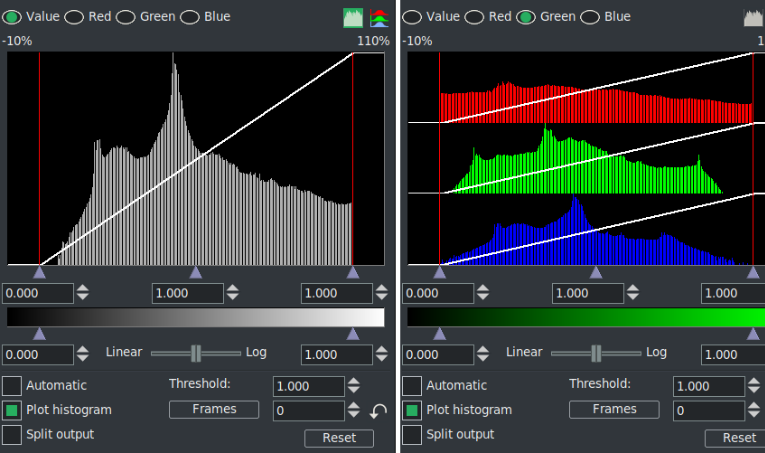
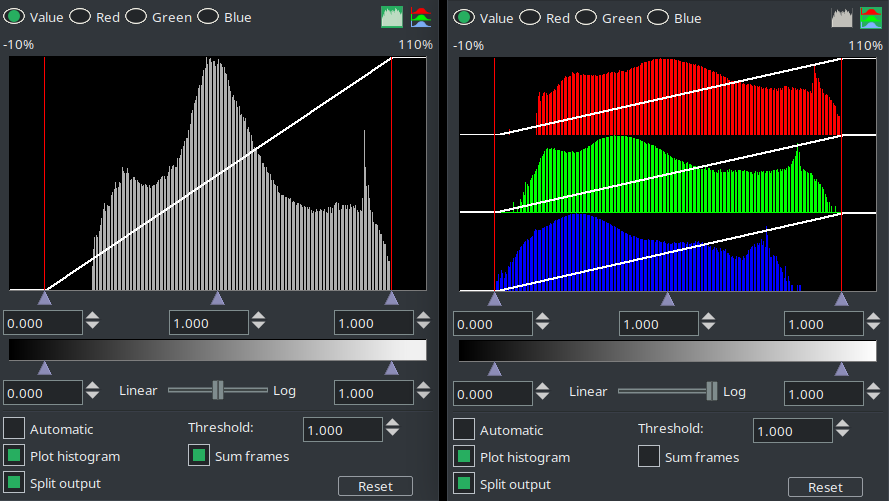
Credit Andrea with Histogram improved explanations and new sum png

diff --git a/parts/Plugins.tex b/parts/Plugins.tex
@@ -1357,7 +1357,7 @@ Together with \textit{Histogram Bezier / Curves} Color 3 Way is the main tool of
     \item Allows you to automate the \textit{white balance} by simply choosing a neutral color in the output of the Compositing window using the Color Picker and pressing the corresponding button in the plugin.
     \item Allows you to vary the \textit{Saturation} with sliders in the same manner as contrast was varied by the Value slider. For istance, to decrease the incidence of color dominants present in the shadows or in the highlights, vary the Saturation.
     \item With the \textit{color wheels} you can make very sophisticated adjustments to the shades of the images, in each of the three main areas of shadows, midtones and highlights.
-    \item Allows you to copy exactly the setting of one zone to the other two zones using \textit{Copy to all} button.
+    \item Allows you to copy exactly the setting of one zone to the other two zones using \textit{Copy to all} button. With this option, it is like using a fourth wheel called \textit{OffSet} in other programs.
     \item In addition to the three reset buttons, each slider and each wheel has its own Clear button, to return it to the default value without affecting the others.
 \end{itemize}
 
@@ -1758,7 +1758,7 @@ The best use of the gamma is manually monitoring the waveform as shown in figure
 
 \begin{itemize}
     \item Look at the highest peak on the \textit{waveform} and measure it with the crosshair observing the numerical value at the top left.
-    \item Set this value with the \textit{maximum} slider.
+    \item Set this value with the \textit{maximum} slider or \textit{textbox}.
     \item Then adjust the slider of the \textit{gamma} to our liking, always checking the result on the waveform so to be sure never to exceed the values of clipping, $0 \div 1.0$.
 \end{itemize}
 
@@ -1809,7 +1809,8 @@ Remap colors using blended histogram weights. Figure~\ref{fig:histeq} shows the 
     \label{fig:histeq}
 \end{figure}
 
-Histeq equalizes the colorspace through use of a \textit{histogram equalization algorithm} -- a technique for adjusting image intensities to enhance contrast. Parameters are:
+If the histogram is as wide as the entire range ($0 - 1.0$), the image is high contrast. If the range is small (i.e., the values are close together) the contrast is small. In this case HistEQ is used to distribute the few clustered values across the entire range ($0 - 1.0$), increasing the contrast of the frame.
+In order to do this HistEQ equalizes the colorspace through use of a \textit{histogram equalization algorithm}. Parameters are:
 
 \begin{description}
     \item[Gain:] when set to $1$, the colorspace is best effort. If the gain is set to $0$, the result is the entire regression line of the color map.
@@ -1822,7 +1823,7 @@ Histeq equalizes the colorspace through use of a \textit{histogram equalization 
 \label{sub:histogram}
 \index{histogram}
 
-The histogram allows an immediate view of the contrast amplitude of an image with its distribution of \textit{luma} and \textit{colors} values. If the columns of values occupy the whole range $0-100\%$ then we have maximum contrast; if the range is smaller the contrast is smaller. If most of the values are on the right of the histogram you have an image with highlights at the limit with values clamped to $1.0$. This is called \textit{overexposure}. However, if most of the values are moved to the left, with the limit of the values clamped to $0$, we have a lowlight image and we talk about \textit{underexposure}. Histogram is keyframble (figure~\ref{fig:histogram}).
+The histogram allows an immediate view of the contrast amplitude of an image with its distribution of \textit{luma} and \textit{colors} values. If the columns of values occupy the whole range $0-1.0\%$ (also expressed as a percentage above the graph) then we have maximum contrast; if the range is smaller the contrast is smaller. In fact, contrast is mathematically given by the highest value of the abscissa minus the lowest value. If the values are similar and close together, the difference is smaller and the lower the contrast. If most of the values are on the right of the histogram you have an image with highlights at the limit with values clamped to $1.0$. This is called \textit{overexposure}. However, if most of the values are moved to the left, with the limit of the values clamped to $0$, we have a lowlight image and we talk about \textit{underexposure}. This plugin is a tool for Primary Color Correction, that is, affecting the entire frame. Histogram is keyframable (figure~\ref{fig:histogram}).
 
 \begin{figure}[htpb]
     \centering
@@ -1831,18 +1832,20 @@ The histogram allows an immediate view of the contrast amplitude of an image wit
     \label{fig:histogram}
 \end{figure}
 
-The Histogram is always performed in floating point RGB regardless of the project color space. The histogram has two sets of transfer parameters: the \textit{input transfer} and the \textit{output transfer}. The input transfer has value on the horizontal axis of $x$; it is a scale of values ranging from 0 to 255 in the case of an $8\,bit$ image, or it can have normalized values in the range ($0-1.0$) or even be a scale in percentage ($0-100\%$). In the output transfer (the $y\,axis$) is represented the number of times (that is, $y$) a given value $x$ appears. A higher column ($y$ greater) indicates that many pixels have the corresponding value $x$; a lower column indicates that fewer pixels have that value. On the left we have the minimum value $0$, which is the black point. On the right we have the maximum value $1.0$ which is the white point. The intermediate values pass smoothly from one extreme to the other. The three important points (including the midtones, i.e.\ the Master Offset) are indicated by cursors (small triangles) at the base of the histogram. You can adjust them to change the values of the three points if you want.
+The Histogram is always performed in floating point RGB regardless of the project color space. The histogram has two sets of transfer parameters: the \textit{input transfer} and the \textit{output transfer}. The input transfer has value on the horizontal axis of $x$; it is a normalized scale of values ranging from 0 - 1.0 (which for a depth color of 8 bits corresponds to the range 0 - 255, for 10 bits corresponds to 0 - 65536, etc). The output transfer (the $y\,axis$) represents the number of times (that is, $y$) a given value $x$ appears. A higher column ($y$ greater) indicates that many pixels have the corresponding value $x$; a lower column indicates that fewer pixels have that value. On the left we have the minimum value $0$, which is the black point. On the right we have the maximum value $1.0$ which is the white point. The intermediate values pass smoothly from one extreme to the other. The three important points (including the midtones) are indicated by cursors (small triangles) at the base of the histogram. You can adjust them to change the values of the three points if you want. Acting on the white or black point involves horizontal shifts only; acting on the midtones triangle also involves vertical movements leading to a "gamma" correction of the curve (Linear to Log or Reverse Log or vice versa). Further down is an additional bar with related cursors and textboxes. It is used to adjust input and output values (on the vertical).
 
-There are 4 possible histograms in the histogram viewer. The red, green, blue histograms show the input histograms for red, green, blue and multiply them by an input transfer to get the output red, green, blue. Then the output red, green, blue is scaled by an output transfer. The scaled red, green, blue is converted into a value and plotted on the value histogram. The value histogram thus changes depending on the settings for red, green, blue. The value transfers are applied uniformly to R, G, B after their color transfers are applied. Mathematically, it is said that the values of $x$ are linked to the values of $y$ by a transfer function. This function is represented by a line that leaves the values of $x$ and $y$ unchanged, but we can intervene by modifying this line with the cursors.
+There are 4 possible histograms in the histogram viewer. The red, green, blue histograms show the input histograms for red, green, blue and multiply them by an input transfer to get the output red, green, blue. Then the output red, green, blue is scaled by an output transfer. The scaled red, green, blue is converted into a value and plotted on the value histogram. The value histogram thus changes depending on the settings for red, green, blue. The value transfers are applied uniformly to R, G, B after their color transfers are applied. Mathematically, it is said that the values of $x$ are linked to the values of $y$ by a transfer function. This function, by default, is represented by a line that leaves the values of $x$ and $y$ unchanged, but we can intervene by modifying this line with the cursors or the textboxes.
 
 You need to select which transfer to view by selecting one of the channels on the top of the histogram. You can also choose whether to display the master, i.e.\ only the values of the \textit{luma}, or show the \textit{Parade}, i.e.\ the three RGB channels. You can switch from one to the other with the two buttons in the upper right corner. The input transfer is defined by a graph overlaid on the histogram; this is a straight line. Video entering the histogram is first plotted on the histogram plot, then it is translated so output values now equal the output values for each input value on the input graph.
 
-After the input transfer, the image is processed by the output transfer. The output transfer is simply a minimum and maximum to scale the input colors to. Input values of $100\%$ are scaled down to the output's maximum. Input values of $0\%$ are scaled up to the output minimum. Input values below $0$ are always clamped to $0$ and input values above $100\%$ are always clamped to $100\%$. Click and drag on the output gradient's triangles to change it. It also has textboxes to enter values into.
+After the input transfer, the image is processed by the output transfer. The output transfer is simply a minimum and maximum to scale the input colors to. Input values of $1.0$ are scaled down to the output's maximum. Input values of $0$ are scaled up to the output minimum. Input values below $0$ are always clamped to $0$ and input values above $1.0$ are always clamped to $1.0$. Click and drag on the output gradient's triangles to change it. It also has textboxes to enter values into.
 
-Enable the \textit{Automatic} toggle to have the histogram calculate an automatic input transfer for the red, green, and blue but not the value. It does this by scaling the middle $99\%$ of the pixels to take $100\%$ of the histogram width. The number of pixels permitted to pass through is set by the \textit{Threshold} textbox. A threshold of $0.99$ scales the input so $99\%$ of the pixels pass through. Smaller thresholds permit fewer pixels to pass through and make the output look more contrasty.
-\textit{Plot histogram} is a checkbox that enables plotting the histogram.
-\textit{Split output} is a checkbox that enables a diagonal split showing in the compositor.
+Enable the \textbf{Automatic} toggle to have the histogram calculate an automatic input transfer for the red, green, and blue but not the value. It does this by scaling the middle $99\%$ of the pixels to take $100\%$ of the histogram width. The number of pixels permitted to pass through is set by the \textit{Threshold} textbox. A threshold of $0.99$ scales the input so $99\%$ of the pixels pass through. Smaller thresholds permit fewer pixels to pass through and make the output look more contrasty.
+\textit{Plot histogram} is a checkbox that enables plotting the histogram. It can be useful because having a histogram that changes in real-time can use a lot of system resources for computation. In this case it is enabled only at times when it is needed.
+\textit{Split output} is a checkbox that enables a diagonal split showing in the compositor, so we can see the effects of the changes from the original frame.
 \textit{Reset} returns the four curves to their initial state (neutral) as well as the Value/RGB histogram buttons.
+
+\textbf{Linear to Log} slider: frequency in Linear range to Log range; default is 50\%, but if you want it to be the same as the Videoscope or Histogram Bezier, which are of type Log, set the slider all the way to Log.  The variation is by 10\% steps.  Linear generally represents what the eye sees in the real world.  Log is an exponential look where the small numbers are represented more - that is, the leading digit.
 
 The histogram plugin ordinarily applies a value for a single frame.  A
 new feature modifies histogram to show values for a selection of frames.
@@ -1855,74 +1858,112 @@ that set of frames instead of each frame.
 
 It works by selecting the area on the timeline for
 which you would like to see the Histogram averaged and then click on the
-\textit{Frames} button in the Histogram plugin.
-The parameters are:
-\textit{Linear to Log} slider: frequency in Linear range to Log range; default is 50\%, but if you want it to be the same as the Videoscope or Histogram Bezier, set the slider all the way to Log.  The variation is by 10\% steps.  Linear generally represents what the eye sees in the real world.  Log is an exponential look where the small numbers are represented more - that is, the leading digit.
-\textit{Frames} button: if a Selection is set on the timeline, the number of frames
-will be calculated and shown in the box next to it.
-\textit{Frame Count box}: type in the number of frames you want to be looked at
-starting at the insert marker or use the up/down counter.
-\textit{Clear Frames} icon: reset the frame count to the default value of 0.
+\textbf{sum frames} button in the Histogram plugin. If a Selection is set on the timeline, the number of frames will be calculated and equalized to the mean value.
 
 A side note: by using a number of frames, you can get a \textit{dissolve-like
 transition effect}.
 
 \paragraph{Theory:} 
 
-A histogram is a bunch of \textit{bins} (accumulators) that count the number of times a particular pixel channel intensity occurs in an image. Dim are on the left, bright on the right.
+A digital image is an matrix of ($N x N$) pixels. Each pixel can have a (integer) luminance or luma ($r$) value ranging from $0$ to $L-1$. Generally we have $L = 2^{m}$ values of r, with m = depth of color bit. $0 = r_{min}$ is the black point. $L-1 = r_{max}$ is the white point. Mathematically we can act on the values of r with various transformation functions. The generic formula is:
 
-The number of bins used depends on the color model bit depth:
+\qquad \( s = T(r) \)
+
+with:
+
+s = luma value after transformation
+r = initial luma value
+T = transformation operator
+
+The T function in the case of a histogram is:
+
+\qquad \( s = p(r_{k}) \)
+
+$T(r) = p(r_{k}$) is the transformation that expresses the probability of an image pixel to have a given luma value $r_{k}$. This is referred to as the frequency of the value or the number of occurrences of the value. The total probability of all pixels in the image is 1 (100\%):
+
+\qquad \( \sum_{r=0}^{L-1}{p(r_{k})} = 1 \)
+
+Trivially, the function $p(r_{k})$ can be thought of as counting the recurrences of the value $r_{k}$.
+The histogram is similar to a bar graph (not the same: the histogram uses continuous data, the bar graph uses discrete data) and on the abscissa it shows $r_{k}$ values and on the ordinate $p(r_{k})$. Each abscissa value is treated as independent of neighboring values so it is considered as an isolated unit called an "accumulator" or "bin." It is on the bins that we count the occurrence of the $r_{k}$ value (occurrences), which gives us precisely the value $p(r_{k})$. It is called a bar graph because a value of r is actually an interval between $r_{k}$ and the next value $(r_{k+\varepsilon})$. Because r has continuous values computed in floating point and normalized interval $0 - 1.0$ is used, there is no solution of continuity between one bin and another and the boundaries are decided a priori, usually based on bit depth color. The bin concept is fundamental because it is the basis on which we can do mathematical calculations. In fact, the height of the bin is the frequency (count) in which that value occurs; the width of the bin is the range of values within the range we consider. With 8 bits of depth color we have 256 bins; then we collect the values of r from the initial value 0 up to and including 1; then from 1 up to and including 2; and so on up to the last bin, which ranges from 254 to and including 255. It is clear, then, that the continuous luma values are bounded in a range and made to become discrete values on which it is easier to perform calculations. The width of a bin is given by the formula:
+
+$width = \dfrac{range}{\# bins}$
+
+For a depth color of 8 bits we have (normalized range $0 - 1.0$):
+
+$width = \dfrac{(1.0-0)}{256} = 1/256$
+
+For a depth color of 10 bits or more we have:
+
+$width = \dfrac{(1.0-0)}{65536} = 1/65536$
+
+Wider bins have a higher count (because they gather more $r_{k}$). Narrower bins have a lower count (because they contain less $r_{k}$; neighboring values ($r_{k+i}$) are distributed in neighboring bins).
+To recap: in \CGG{}  histogram is a bunch of \textit{bins} (accumulators) that count the number of times a particular pixel channel intensity (luma, $r_{k}$) occurs in an image. The plugin scans all the pixels in the frame, counting the occurrences in each given bin. Dim are on the left, bright on the right.
+You can have discordance of results, looking in the scopes, either by switching from Histogram to Histogram Bezier or after a conversion between color spaces (with associated change in depth color). The number of bins used depends on the color model bit depth:
 
 \begin{description}
-	\item[Histogram:] 256 for rgb8 and 65536 for all others.
-	\item[Bezier:] 256 for rgb8/yuv8 and 65536 for all others.
+	\item[Histogram:] 256 for rgb8 and 65536 for all others
+	\item[Bezier:] 256 for rgb8/yuv8 and 65536 for all others
 	\item[Scopes:] always uses 65536
 \end{description}
 
-All of the bins are scanned when the graph is plotted.  What is shown
-depends on which plugin is used:
+All of the bins are scanned when the graph is plotted.  What is shown on the graph, in the Compositor window, and finally on the scopes, depends on which plugin is used:
 
 \begin{description}
-	\item[Histogram:] was max of the bins in the pixel range, now is the sum
+	\item[Histogram:] was max of the bins in the pixel range, now is the sum (to make it congruent with Bezier and the Scopes)
 	\item[Bezier:] is the max of the bins in the pixel range
 	\item[Scopes:] is the max of the bins in the pixel range
 \end{description}
 
-When the color space and the bin size are the same, all of the values
-increment the indexed bins.  When the color is the result of yuv $\rightarrow$ rgb conversion, the results \textit{spread} if there are more bins than colors.  This is the same effect you see when you turn on \textit{smoothing} in the vectorscope histogram.
+Another difference in behavior is regarding the type of curve, whether Linear or Log:
 
-The \textit{total} pixels for each value is approximately the same, but the \textit{max} value depends on the color quantization.  More colors increment more bins.  Fewer colors increment fewer bins.  In both cases, the image size has the same
-number of pixels.  The fewer color case increments the used bins, and skips the
-unused bins.  This sums all of the pixels into fewer bins, and the bins have
-higher values. That is the \textit{rgb} vs \textit{yuv} case, fewer vs more bins are used.
+\begin{description}
+	\item[Histogram:] the curve is Linear, but it is editable with the Linear/Log slider
+	\item[Bezier:] the curve is Log
+	\item[Scopes:] the curve is Log
+\end{description}
 
-To report something more consistent, has been changed the reported value to
+This diversity also leads to different visual results from Histogram Bezier.
+
+When the color space and the bin size are the same, all of the values increment the indexed bins. But if we start from YUV type edits, the plugin will automatically do the conversion to RGB. When the color is the result of yuv $\rightarrow$ rgb float conversion, we go from 256 bins of YUV to 65536 bins of RGB Float and the results \textit{spread} if there are more bins than colors.  This is the same effect you see when you turn on \textit{smoothing} in the vectorscope histogram.
+
+The \textit{total} pixels for each value is approximately the same, but the \textit{max} value depends on the color quantization.  More colors increment more bins.  Fewer colors increment fewer bins.  In both cases, the image size has the same number of pixels. So the pixels will distribute into more bins if you go to a higher depth color; those bins will have a lower count.  The fewer color case increments the used bins, and skips the unused bins.  This sums all of the pixels into fewer bins, and the bins have higher values. That is the \textit{rgb} vs \textit{yuv} case, fewer vs more bins are used. To get more consistent visual feedback (and on scopes), the concept of sum was used instead of the maximum number of occurrences (max).
+
+To report something more consistent, the reported value has been changed from
+the original code to be
 the \textit{sum} of the accumulated counts for the bins reporting a pixel bar on the
 graph. The effect of this is to do this:
 
+
+\begin{figure}[htpb]
+	\centering
+	\includegraphics[width=0.5\linewidth]{sum.png}
+	\caption{Sum bins Vs max bins}
+	\label{fig:sum}
+\end{figure}
+
 \begin{center}
-	\begin{tabular}{llcrr}
+	\begin{tabular}{clccr}
 		\hline
 		1 &  & & & \\
 		1 &  & & 1 & \\
-		000100 & 3 pixels & vs & 001000& 3 pixels \\
+		000100 & 3 pixels & vs & 0011000& 3 pixels \\
 		\hline
 	\end{tabular}
 \end{center}
 
-On the left, the course color model piles all 3 pixels into one bin.  max
-value 3
-
-On the right, the fine color model puts the counts into 2 bins, max 2, sum 3
+On the left, the course color model piles all 3 pixels into one bin, max
+value 3.
+On the right, the fine color model puts the counts into 2 bins, max 2, sum 3.
 
 So, by reporting the sum the shape of the results are more similar.
-
 
 \subsection{Histogram Bezier / Curves}%
 \label{sub:histogram_bezier_curves}
 \index{histogram Bezier}
 
-Histogram Bézier allows an immediate view of the contrast amplitude of an image with its distribution of luma and colors values using a piecewise linear method. In addition it uses a Bézier curve (parametric) on the histogram plot. When mapping color spaces, it has a variety of presentations to get smoother transitions and more pleasing output. It uses more general remapping, not just straight lines but more contour lines. Curves are perhaps the most powerful and sophisticated tool for color correction. For some repetitive details, see the previous description of the Histogram plugin. Histogram Bézier is keyframable.
+Histogram Bézier allows an immediate view of the contrast amplitude of an image with its distribution of luma and colors values using a piecewise linear method (bins). In addition it uses a Bézier curve (parametric) on the histogram plot. When mapping color spaces, it has a variety of presentations to get smoother transitions and more pleasing output. It uses more general remapping, not just straight lines but more contour lines. Curves are perhaps the most powerful and sophisticated tool for color correction. For some repetitive details, see the previous description of the Histogram plugin. Histogram Bézier is keyframable. The scale is given in percent ($0 - 100\% \pm 10\%$). The default curve is Log type and can use either RGB or YUV sources without implementing conversions.
+
+NOTE: Histogram Bezier may give results that are not congruent with Histogram plugin. To understand the difference in behavior see the Theory section in Histogram plugin.
 
 The input graph is edited by adding and removing any number of points. Click and drag anywhere in the input graph to create a point and move it. Click on an existing point to make it active and move it. The active point is always indicated by being filled in. The active point's input X and output Y values are given in textboxes on top of the window. The input and output color of the point can be changed through these textboxes. Points can be deleted by first selecting a point and then dragging it to the other side of an adjacent point. They can also be deleted by selecting them and hitting delete (figure~\ref{fig:bezier}).
 
